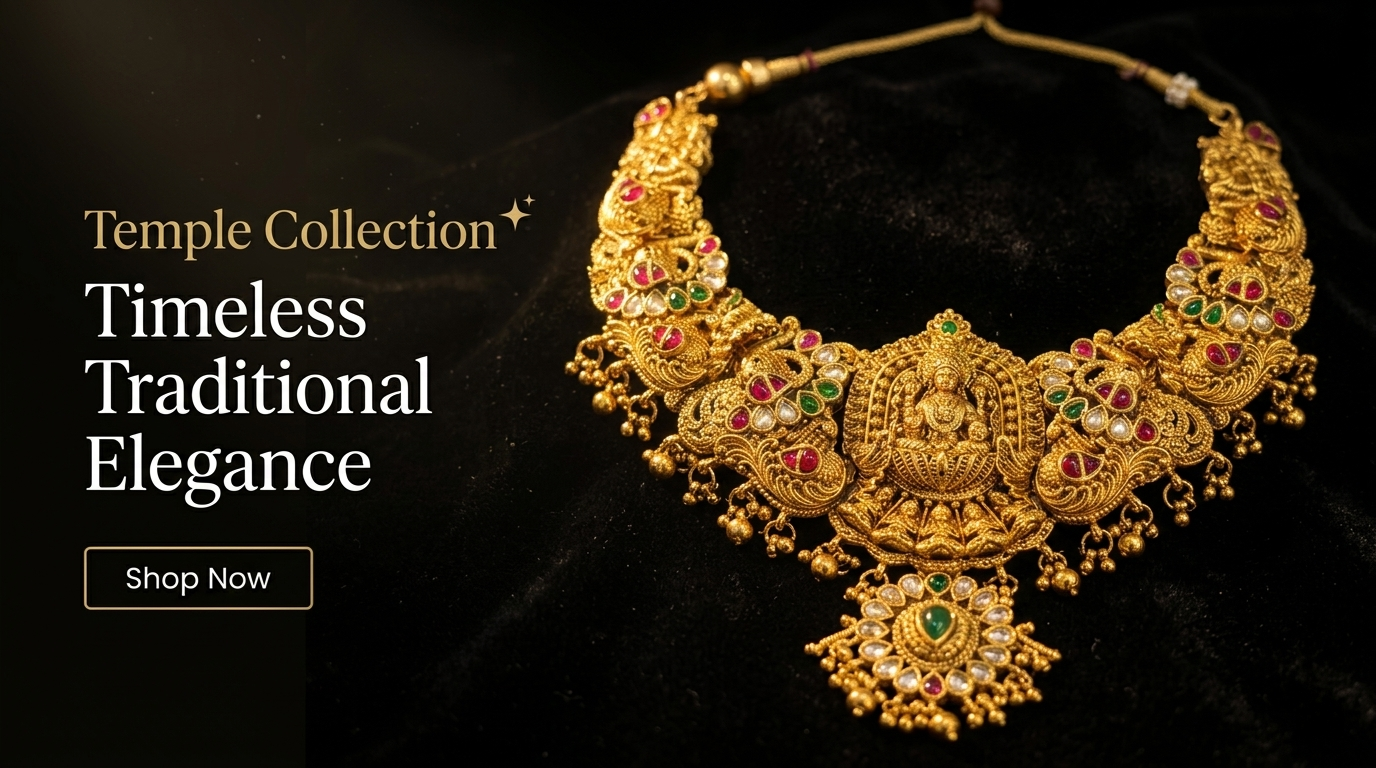
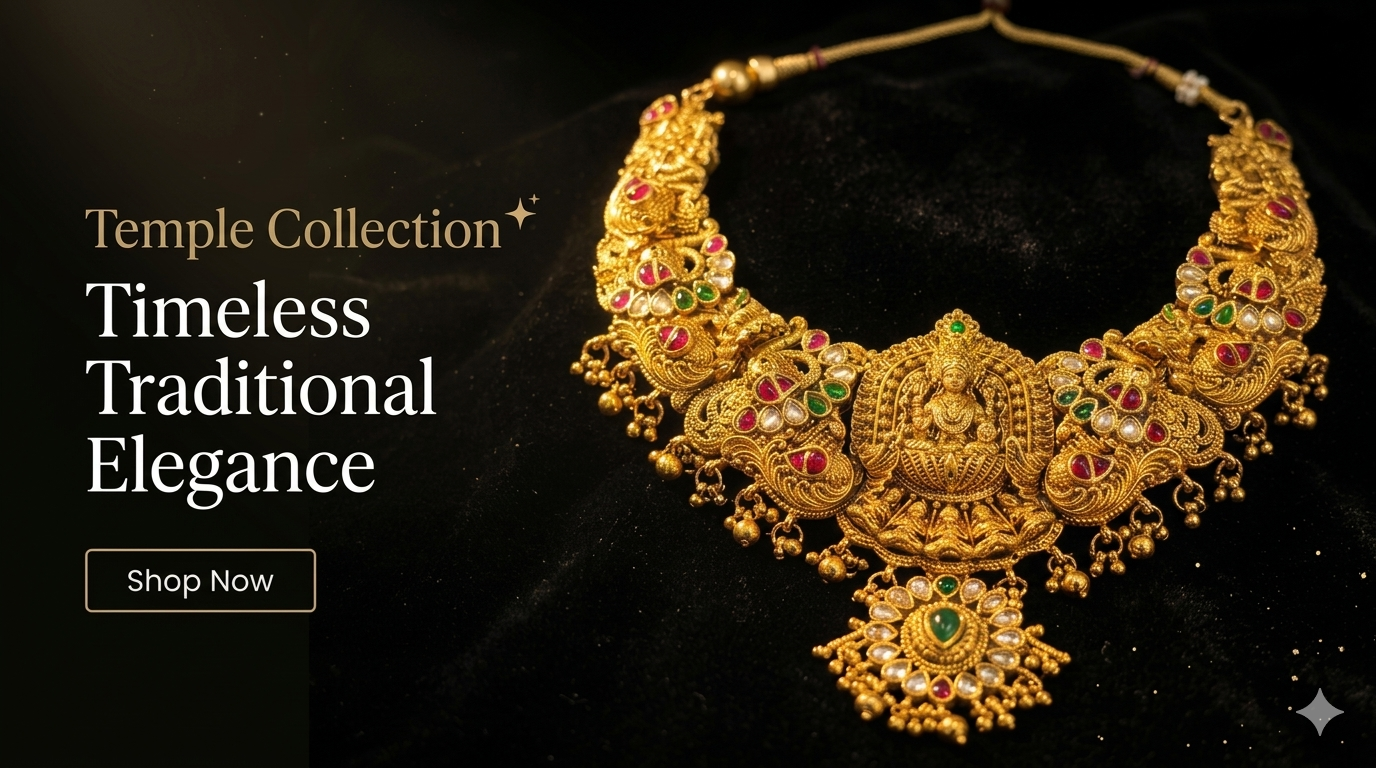
fixedfinal20

diff --git a/apps/sasthik/app/page.tsx b/apps/sasthik/app/page.tsx
@@ -3,6 +3,7 @@
 import { useState, useEffect } from 'react';
 import { useRouter } from 'next/navigation';
 import Link from 'next/link';
+import Image from 'next/image';
 import { motion, AnimatePresence } from 'framer-motion';
 import { 
   ArrowRight, ChevronLeft, ChevronRight, CheckCircle, 
@@ -13,10 +14,20 @@ import { getProducts } from '@/lib/api';
 import { toast } from 'react-hot-toast';
 
 // ── Dummy Data ──
-const heroSlides = [
-  { title: "", subtitle: "", color: "bg-brand-teal", image: "/img/banner 1.png", buttonText: "Shop Temple Jewelry", buttonLink: "/jewellery" },
-  { title: "", subtitle: "", color: "bg-brand-rose-gold", image: "/img/banner 2.png", buttonText: "Explore Collection", buttonLink: "/jewellery" },
-  { title: "", subtitle: "", color: "bg-[#1A1A2E]", image: "/img/banner 3.png", buttonText: "Shop New Arrivals", buttonLink: "/jewellery" },
+interface HeroSlide {
+  title: string;
+  subtitle: string;
+  color: string;
+  image: string;
+  buttonText: string;
+  buttonLink: string;
+  position?: string;
+}
+
+const heroSlides: HeroSlide[] = [
+  { title: "", subtitle: "", color: "bg-brand-teal", image: "/img/banner 1.png", buttonText: "Shop Temple Jewelry", buttonLink: "/jewellery", position: "left" },
+  { title: "", subtitle: "", color: "bg-brand-rose-gold", image: "/img/banner 2.png", buttonText: "Explore Collection", buttonLink: "/jewellery", position: "left" },
+  { title: "", subtitle: "", color: "bg-[#1A1A2E]", image: "/img/banner 3.png", buttonText: "Shop New Arrivals", buttonLink: "/jewellery", position: "top" },
 ];
 
 const occasions = [
@@ -111,7 +122,7 @@ export default function HomePage() {
     <div className="flex flex-col bg-white overflow-hidden">
       
       {/* [3A] Hero Banner Carousel */}
-      <section className="relative h-[350px] sm:h-[450px] md:h-[650px] w-full overflow-hidden">
+      <section className="relative w-full h-[60vh] md:h-[650px] overflow-hidden bg-gray-100">
         <AnimatePresence mode="wait">
           <motion.div
             key={currentHero}
@@ -119,13 +130,25 @@ export default function HomePage() {
             animate={{ opacity: 1 }}
             exit={{ opacity: 0 }}
             transition={{ duration: 1 }}
-            className={`absolute inset-0 ${heroSlides[currentHero].color} flex items-center justify-center bg-cover bg-[80%_center] md:bg-center`}
-            style={heroSlides[currentHero].image ? {
-              backgroundImage: `url('${heroSlides[currentHero].image}')`,
-            } : {}}
+            className={`absolute inset-0 ${heroSlides[currentHero].color} flex items-center justify-center`}
           >
-            {heroSlides[currentHero].image && <div className="absolute inset-0 bg-black/40 z-0" />} 
-            <div className="absolute inset-0 opacity-10 bg-[url('https://www.transparenttextures.com/patterns/cubes.png')]" />
+            {heroSlides[currentHero].image ? (
+              <div className="relative w-full h-full overflow-hidden">
+                <Image 
+                  src={heroSlides[currentHero].image}
+                  alt={heroSlides[currentHero].title || "Banner"}
+                  fill
+                  priority
+                  className="object-contain md:object-cover"
+                  style={{ objectPosition: 'center' }}
+                  sizes="100vw"
+                />
+                <div className="absolute inset-0 bg-black/20 z-0" />
+              </div>
+            ) : (
+                <div className="absolute inset-0 opacity-10 bg-[url('https://www.transparenttextures.com/patterns/cubes.png')]" />
+            )}
+            
             <div className="container mx-auto px-6 md:px-12 relative z-10 flex flex-col items-center justify-center text-center text-white h-full">
               {heroSlides[currentHero].title && !heroSlides[currentHero].image && (
                 <div className="max-w-4xl mx-auto">
@@ -160,7 +183,7 @@ export default function HomePage() {
                 initial={{ y: 20, opacity: 0 }}
                 animate={{ y: 0, opacity: 1 }}
                 transition={{ delay: 0.9 }}
-                className={`flex flex-col sm:flex-row items-center justify-center gap-4 ${heroSlides[currentHero].image ? 'mt-28 md:mt-80' : ''}`}
+                className={`flex flex-col sm:flex-row items-center justify-center gap-4 ${heroSlides[currentHero].image ? 'mt-20 md:mt-80' : ''}`}
               >
                 <Link href={heroSlides[currentHero].buttonLink as any} className="bg-white text-[#1A1A2E] px-12 py-4 font-body text-[11px] tracking-widest uppercase hover:bg-brand-rose-gold hover:text-white transition-all shadow-xl font-bold flex items-center gap-2">
                   {heroSlides[currentHero].buttonText} <ArrowRight size={14} />
